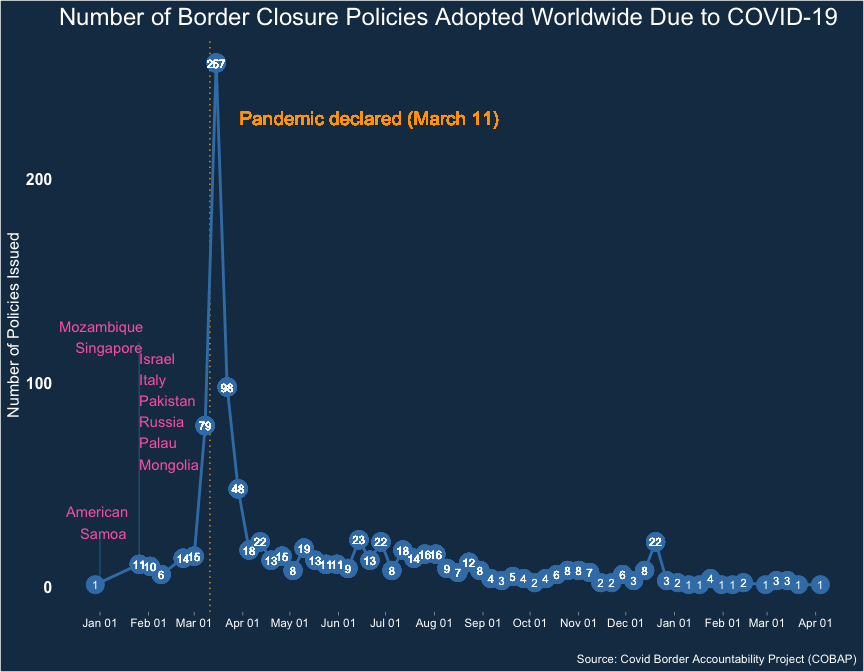
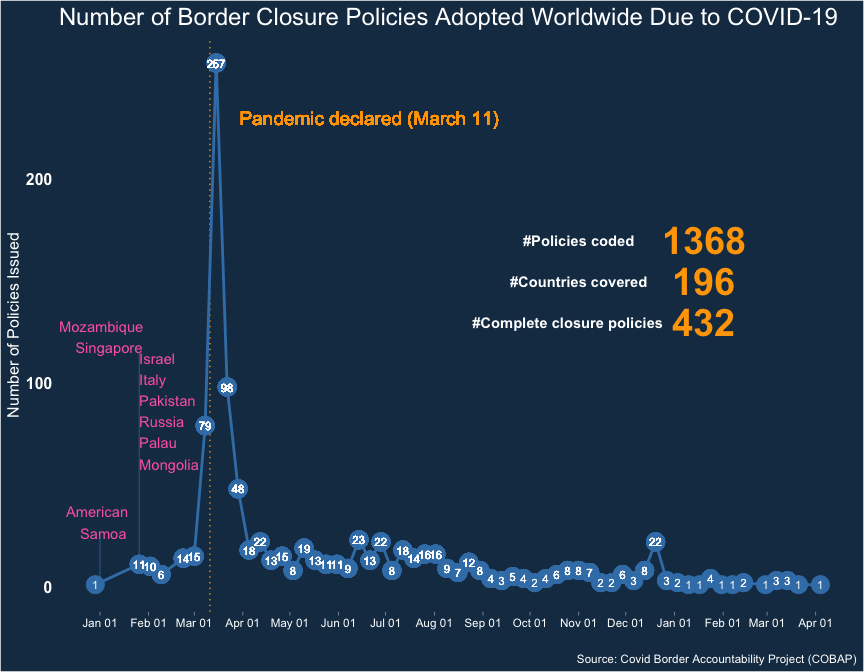
refine plots

Changed region(s): [[0.5312, 0.3125, 0.875, 0.5], [0.5938, 0.4062, 0.75, 0.4375]]

diff --git a/README.md b/README.md
@@ -27,71 +27,65 @@ library(forcats)
 
 ``` r
 d <- rio::import(here::here("data", "policy_list.csv")) %>% 
-  select(1:23) %>% 
-  janitor::clean_names() 
-
+  select(1:23) %>% janitor::clean_names() 
 # convert to date format, select needed columns
 data <- d %>% 
   mutate(start_asdate = lubridate::mdy(d$start_date), # date format mm_dd_yyyy
          end_asdate = lubridate::mdy(d$end_date)) %>% 
   select(c(country_name, iso3, policy_type, air, land, sea, start_asdate, end_asdate)) %>%   drop_na()
-```
-
-``` r
 # data for the line chart
  pd_line <- data %>% 
-  #count in week interval
   select(country_name, iso3, start_asdate) %>% 
-  add_count(week = floor_date(start_asdate, "week")) %>% 
-  arrange(start_asdate) %>% 
-  drop_na()
+  add_count(week = floor_date(start_asdate, "week")) %>%   #count in week interval
+  arrange(start_asdate) %>% drop_na()
 ```
 
 #### Plot 1: Overall policies
 
 ``` r
-# plot
-  p_allpolicies <- pd_line %>% 
+p_allpolicies <- pd_line %>% 
   ggplot(aes(week, n)) +
   geom_vline(xintercept = as.Date("2020-03-11"), linetype = "dotted", color = "orange") +
    geom_text(label = "Pandemic declared (March 11)", 
              size = 5, color = "orange", hjust = -0.2,
-             x = as.Date("2020-02-26"), # arbitrary date to make sure the text does not cross the vline
-            y = 230
-           ) + 
-    geom_point(aes(week, n), size = 6, shape = 21, fill = "#3E80B6", color = "#3E80B6") +
-
+             x = as.Date("2020-02-26"), y = 230) + 
+  geom_point(aes(week, n), size = 6, shape = 21, fill = "#3E80B6", color = "#3E80B6") +
   geom_line(color = "#3E80B6", size = 1) +
   
   #show values inside the points
-  geom_text(aes(label = n),
-            color = "white",
-            size = 3) + 
+  geom_text(aes(label = n), color = "white", size = 3) + 
   scale_x_date(date_breaks = "1 month", date_labels = "%b %d") +
  
   # First country to adop a boder closure American\Samoa; 
-    annotate(geom = "text", 
-                 x = as.Date("2020-01-15"), 
-                 y = .5,
+    annotate(geom = "text", x = as.Date("2020-01-15"), y = .5,
                 label = "American\nSamoa", vjust = -1.5, hjust = 0.9, color = "#FD69B3") +
-                
     annotate("segment", x = as.Date("2020-01-01"), xend = as.Date("2020-01-01"), 
-               y = 27, yend = 3, colour = "#3E80B6", size=.5, alpha = .5) +   
+               y = 25, yend = 3, colour = "#3E80B6", size=.5, alpha = .5) +   
   
   #countries adopted policies during the second week 2020-Jan-26 to end of 2020-Feb-01
- 
-  annotate(geom = "text", 
-                 x = as.Date("2020-01-26"), 
-                 y = .5,
+   annotate(geom = "text", x = as.Date("2020-01-26"), y = .5,
                 label = "Mozambique\nSingapore\n", vjust = -4, hjust = 0.95, color = "#FD69B3") +
-  
-  annotate(geom = "text", 
-                 x = as.Date("2020-01-26"), 
-                 y = .5,
+  annotate(geom = "text", x = as.Date("2020-01-26"), y = .5,
                 label = "Israel\nItaly\nPakistan\nRussia\nPalau\nMongolia", vjust = -1, hjust = 0, color = "#FD69B3") +
-                
-    annotate("segment", x = as.Date("2020-01-26"), xend = as.Date("2020-01-26"), 
-               y = 120, yend = 10, colour = "#3E80B6", size=.5, alpha = .5) +
+  annotate("segment", x = as.Date("2020-01-26"), xend = as.Date("2020-01-26"), 
+               y = 115, yend = 10, colour = "#3E80B6", size=.5, alpha = .5) +
+  
+  # additional info about the dataset - total policies 
+  annotate(geom = "text", x = as.Date("2020-11-01"), y = 170,
+                label = "#Policies coded", fontface = "bold", color = "white") +
+  annotate(geom = "text", x = as.Date("2021-01-20"), y = 170,
+                label = "1368",  fontface = "bold", size = 10, color = "orange") +
+    # about the dataset - total countries
+  annotate(geom = "text", x = as.Date("2020-11-01"), y = 150,
+                label = "#Countries covered", fontface = "bold", color = "white") +
+  annotate(geom = "text", x = as.Date("2021-01-20"), y = 150,
+                label = "196", fontface = "bold", size = 10, color = "orange") +
+  # about the dataset - complete policies 
+  annotate(geom = "text", x = as.Date("2020-10-25"), y = 130,
+                label = "#Complete closure policies", fontface = "bold", color = "white") +
+  annotate(geom = "text", x = as.Date("2021-01-20"), y = 130,
+                label = "432", fontface = "bold", size = 10, color = "orange") +
+  # labs and theme
   labs(x = "",
        y = "Number of Policies Issued",
        title = "Number of Border Closure Policies Adopted Worldwide Due to COVID-19", 
@@ -115,19 +109,13 @@ p_allpolicies
 
 ![](README_files/figure-gfm/plot%201-1.png)<!-- -->
 
-``` r
-#ggsave("p_allpolicies.png", p_allpolicies, width = 9, height = 7, units = "in")
-```
-
 #### Plot 2: Countries with high number of border closure policies issued
 
 ``` r
 # Countries issued more than 10 policies
 more10policies <- data %>% 
   group_by(country_name) %>% 
-  count() %>% 
-  filter(n > 10) %>%
-  arrange(desc(n)) %>% 
+  count() %>% filter(n > 10) %>% arrange(desc(n)) %>% 
   mutate(country_name = as.factor(country_name)) %>% 
   mutate(country_name = fct_relevel(country_name, "Cocos (Keeling) Islands", "Romania", "Latvia", "Cyprus", "Finland", "Germany", "American Samoa", "Austria", "Aruba", "Myanmar", "Brazil", "Curaçao", "Nepal", "Seychelles", "Spain"))
 
@@ -136,14 +124,11 @@ p_more10 <- more10policies %>%
 ggplot(aes(country_name, n)) +
   geom_segment(aes(x = country_name, xend = country_name, y = 0, yend = n), color = "skyblue", size = 2) +
   geom_point(color = "orange", size = 6) +
-  labs(
-    title = "Countries Issued the Most Border Closure Policies",
+  labs(title = "Countries Issued the Most Border Closure Policies",
     subtitle = "Related to COVID-19, Jan-2020 to Apr-2021",
     x = "",
     y = "Number of Policy Issued",
-    caption = "Source: Covid Border Accountability Project (COBAP)"
-  ) +
-  theme_light() +
+    caption = "Source: Covid Border Accountability Project (COBAP)") +
   coord_flip() +
   theme(
     axis.title.x = element_text(colour = "white", size = 15),
@@ -164,10 +149,6 @@ p_more10
 ```
 
 ![](README_files/figure-gfm/plot2-1.png)<!-- -->
-
-``` r
-#ggsave("p_more10.png", p_more10, width = 9, height = 7, units = "in")
-```
 
 #### [Authors of the dataset](https://doi.org/10.7910/DVN/U6DJAC):
 
